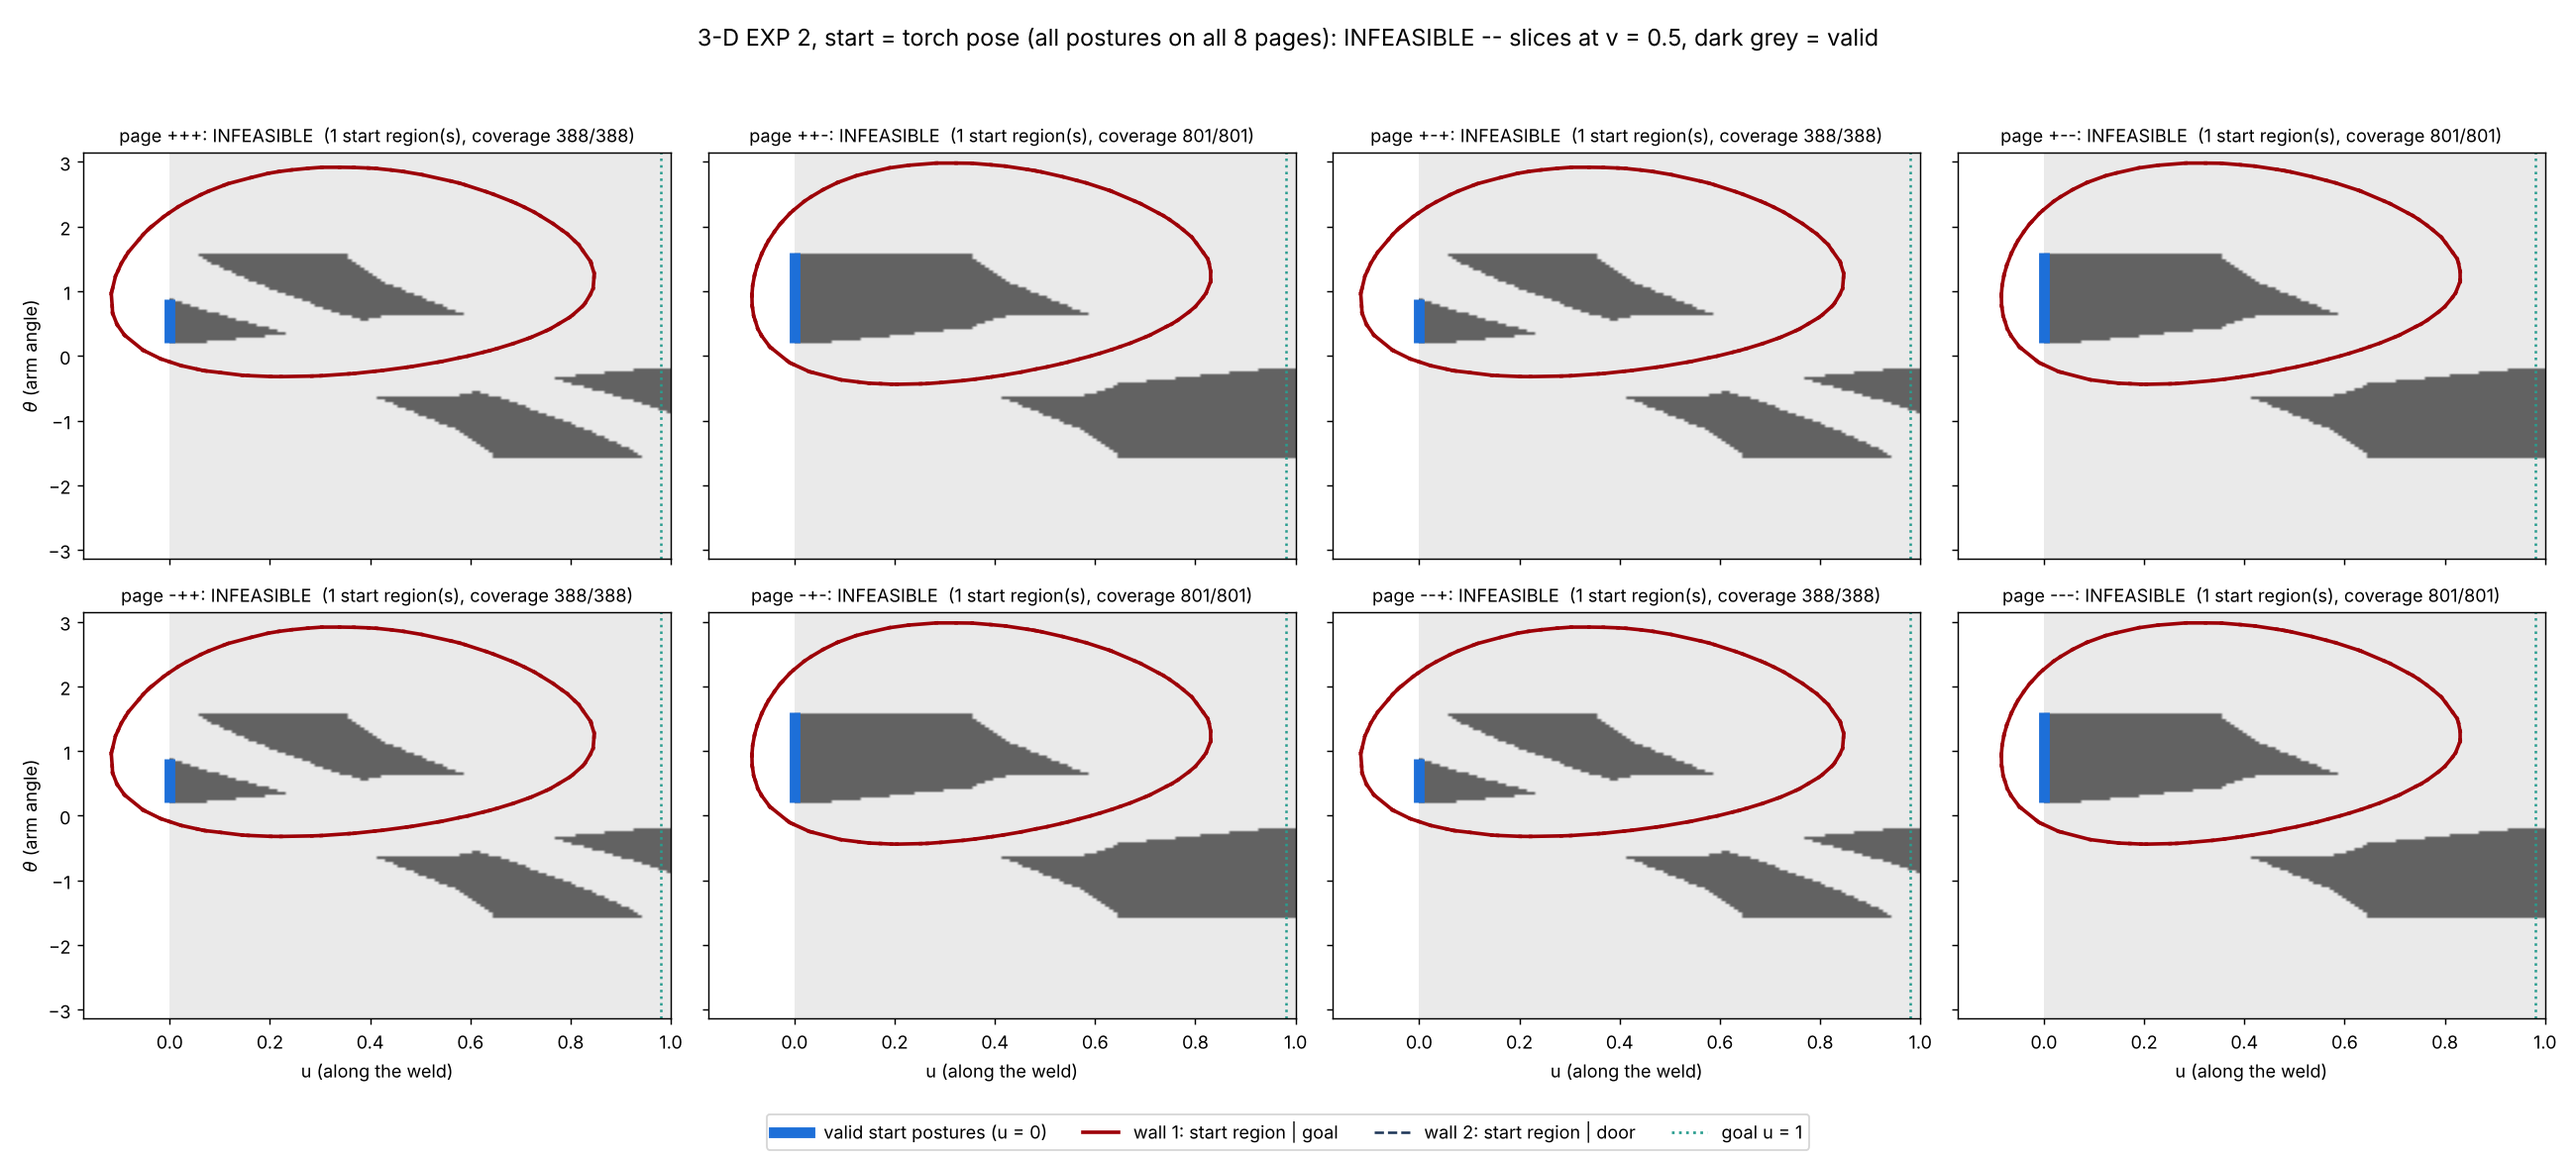
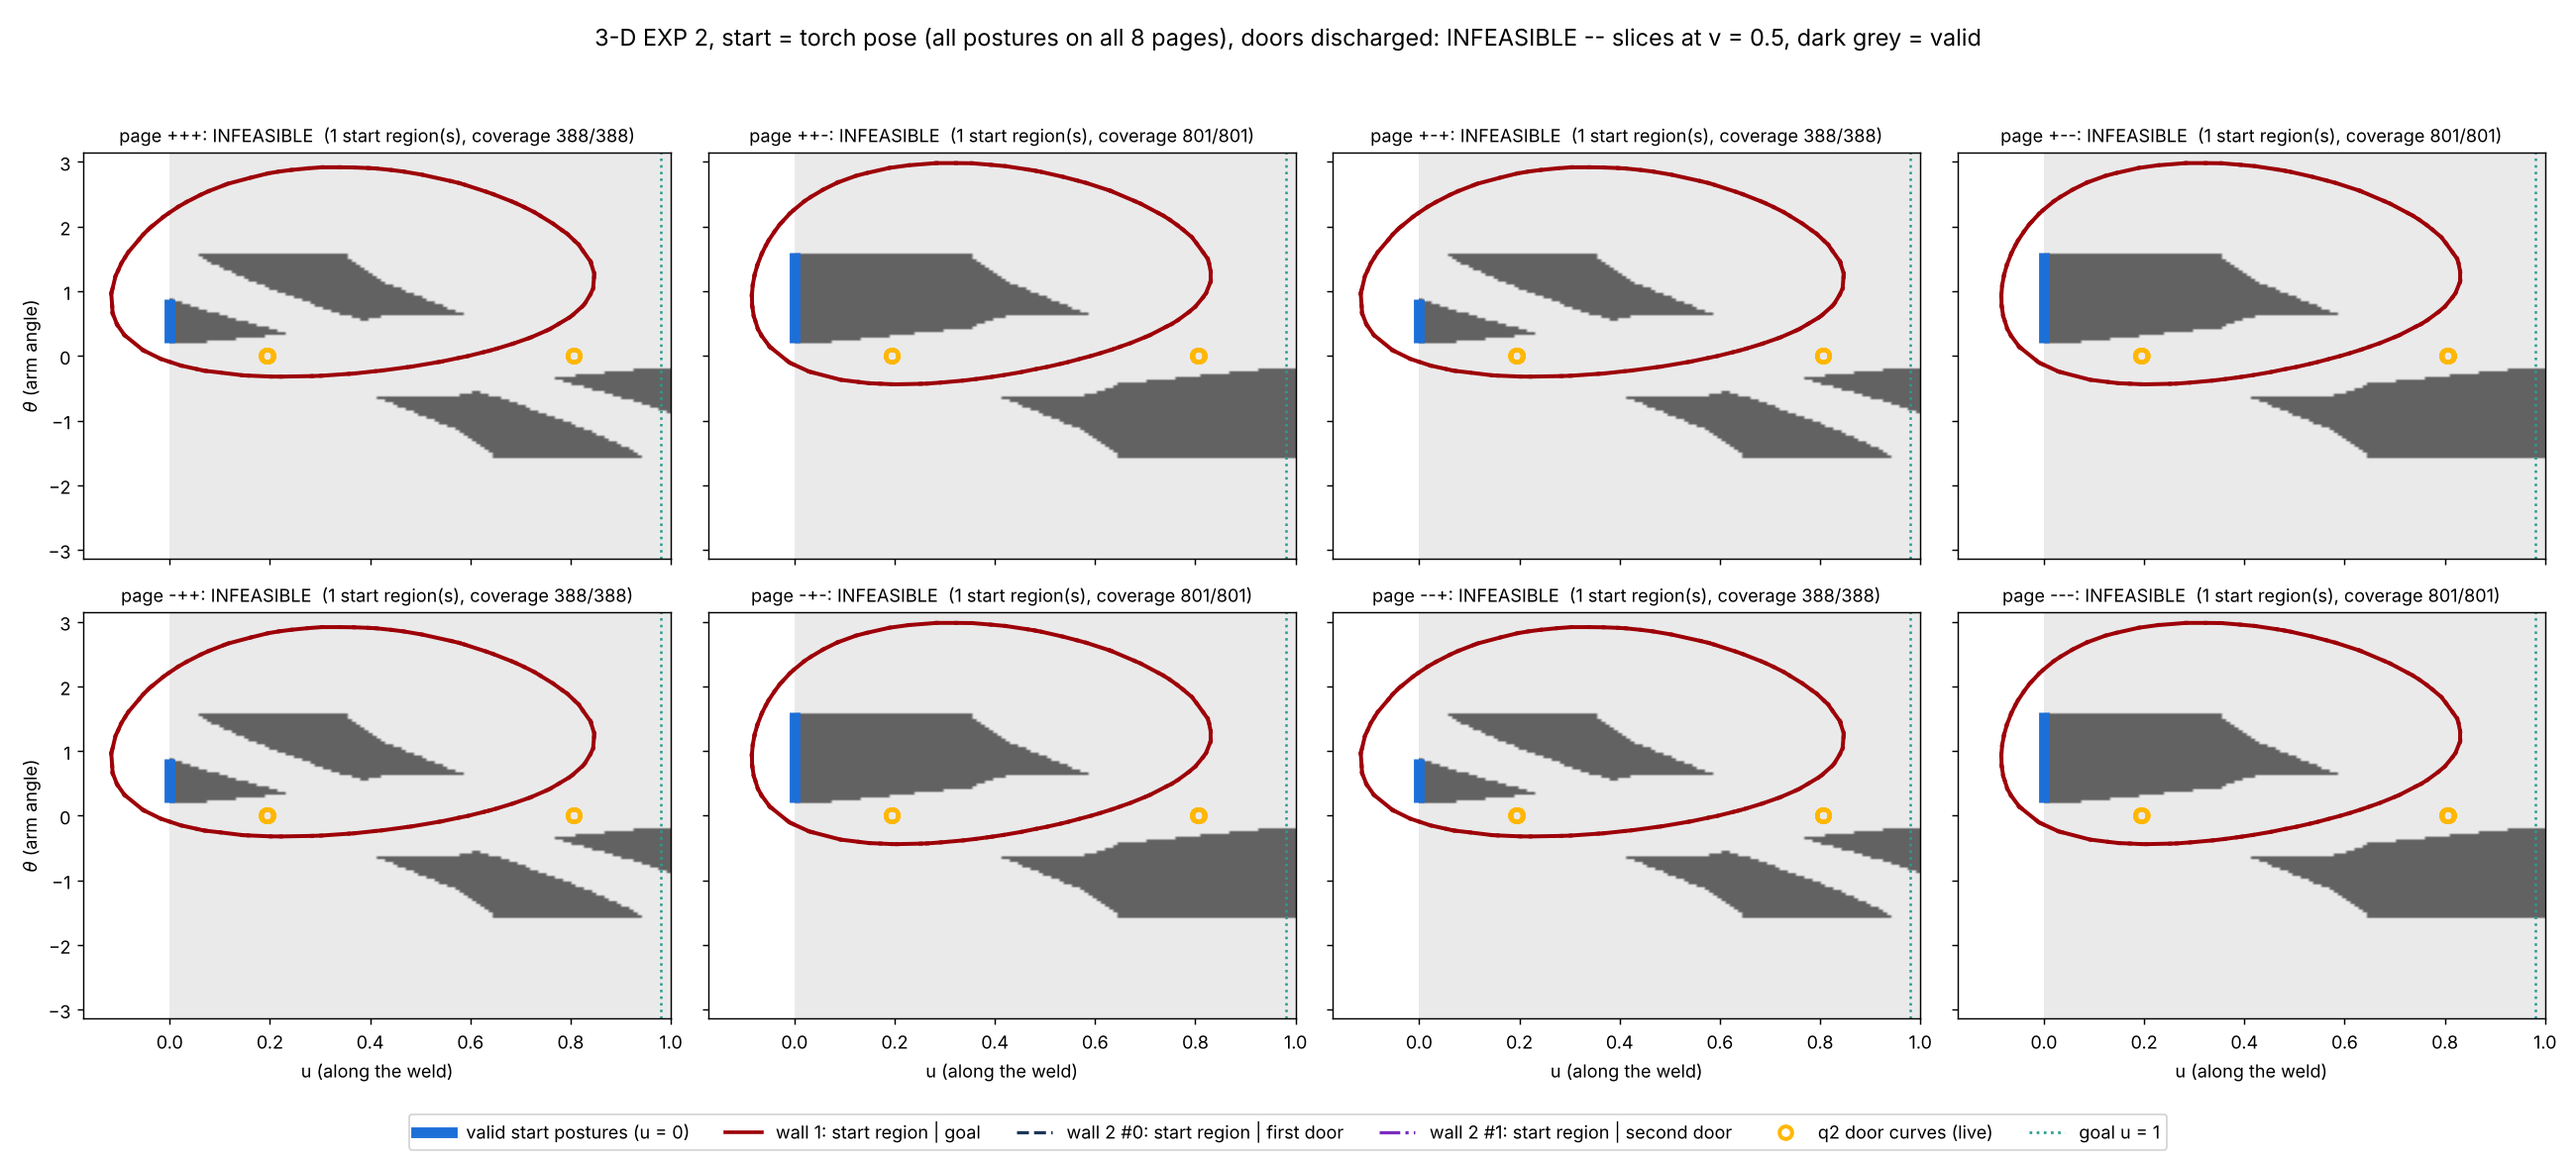
Draw every wall of the multi-start proof, and the live-door run
exp2_multistart_3d.py now draws wall 1 and each second wall in its own
style, marks the door curves and failed second walls, and names the door
mode in the title. docs/figs/exp2_multistart_3d_live.png is the live-door
run: three verified walls on each s6 = - page; on the s6 = + pages wall 1
verifies but the near door's second wall fails (INCONCLUSIVE).

Claude-Session: https://claude.ai/code/session_01G8MAXhHoCFhxSocWosBWNb

Changed region(s): [[0.2492, 0.0, 0.7477, 0.0615], [0.1558, 0.9538, 0.5296, 1.0], [0.5608, 0.9538, 0.8412, 1.0]]

diff --git a/scripts/exp2_multistart_3d.py b/scripts/exp2_multistart_3d.py
@@ -72,6 +72,7 @@ def figure(results, setup_args, path):
     import matplotlib.pyplot as plt
     from exp2_two_walls_3d import slice_segments
     from zzy_rss.batch import classify_surface_batch
+    from zzy_rss.doors3 import door_curves
     cfg, arm, scene, surf, p3 = E.setup(*setup_args)
     v = p3.start_v
     U, T = np.meshgrid(np.linspace(0, 1, 121), np.linspace(-np.pi, np.pi, 145), indexing="ij")
@@ -84,13 +85,33 @@ def figure(results, setup_args, path):
         ax.imshow(ok.T, origin="lower", aspect="auto", extent=[0, 1, -np.pi, np.pi],
                   cmap="Greys", vmin=-0.3, vmax=1.6)
         r = by.get(name, {})
+        w2_styles = [("#1d3557", "--"), ("#7b2cbf", "-.")]
+        notes = []
         for reg in r.get("regions", []):
+            k2 = 0
+            sw = reg.get("second_walls", [])
             for lab, pl in reg.get("polys", []):
+                if lab == "wall 1":
+                    col, ls, lw = "#9d0208", "-", 2.2
+                else:
+                    ok2 = sw[k2]["excluded"] if k2 < len(sw) else False
+                    col, ls = w2_styles[k2 % 2]
+                    lw = 1.8
+                    if not ok2:
+                        notes.append(f"wall 2 #{k2}: FAILED")
+                    k2 += 1
                 if pl is None:
                     continue
-                col, ls = ("#9d0208", "-") if lab == "wall 1" else ("#1d3557", "--")
                 for seg in slice_segments(pl["vertices"], pl["simplices"], v):
-                    ax.plot(seg[:, 0], seg[:, 1], color=col, ls=ls, lw=2.0 if lab == "wall 1" else 1.4)
+                    ax.plot(seg[:, 0], seg[:, 1], color=col, ls=ls, lw=lw)
+        for c in door_curves(cfg, arm, surf, p3):
+            near = np.abs(c.pts[:, 1] - v) < 0.02
+            if near.any():
+                ax.plot(c.pts[near, 0], c.pts[near, 2], "o", ms=7, mfc="none", mec="#ffb703",
+                        mew=2.2)
+        if notes:
+            ax.text(0.5, -2.85, "; ".join(notes), ha="center", color="#d62828", fontsize=9,
+                    fontweight="bold")
         for a, b in r.get("arcs", []):
             ax.plot([0, 0], np.radians([a, b]), color="#1d6fd8", lw=6, solid_capstyle="butt")
         ax.axvline(1 - p3.goal_tol, color="#2a9d8f", ls=":", lw=1.4)
@@ -104,12 +125,17 @@ def figure(results, setup_args, path):
     from matplotlib.lines import Line2D
     fig.legend(handles=[Line2D([], [], color="#1d6fd8", lw=6, label="valid start postures (u = 0)"),
                         Line2D([], [], color="#9d0208", lw=2, label="wall 1: start region | goal"),
-                        Line2D([], [], color="#1d3557", lw=1.4, ls="--",
-                               label="wall 2: start region | door"),
+                        Line2D([], [], color="#1d3557", lw=1.8, ls="--",
+                               label="wall 2 #0: start region | first door"),
+                        Line2D([], [], color="#7b2cbf", lw=1.8, ls="-.",
+                               label="wall 2 #1: start region | second door"),
+                        Line2D([], [], ls="", marker="o", ms=7, mfc="none", mec="#ffb703",
+                               mew=2.2, label="q2 door curves (live)"),
                         Line2D([], [], color="#2a9d8f", ls=":", label="goal u = 1")],
-               loc="lower center", ncol=4, fontsize=10)
+               loc="lower center", ncol=6, fontsize=10)
     verdict = combine(results)[0]
-    fig.suptitle(f"3-D EXP 2, start = torch pose (all postures on all 8 pages): {verdict} -- "
+    mode = "every door LIVE" if setup_args[4] else "doors discharged"
+    fig.suptitle(f"3-D EXP 2, start = torch pose (all postures on all 8 pages), {mode}: {verdict} -- "
                  f"slices at v = {v}, dark grey = valid", fontsize=13)
     fig.tight_layout(rect=(0, 0.05, 1, 0.95))
     fig.savefig(path, dpi=130)
